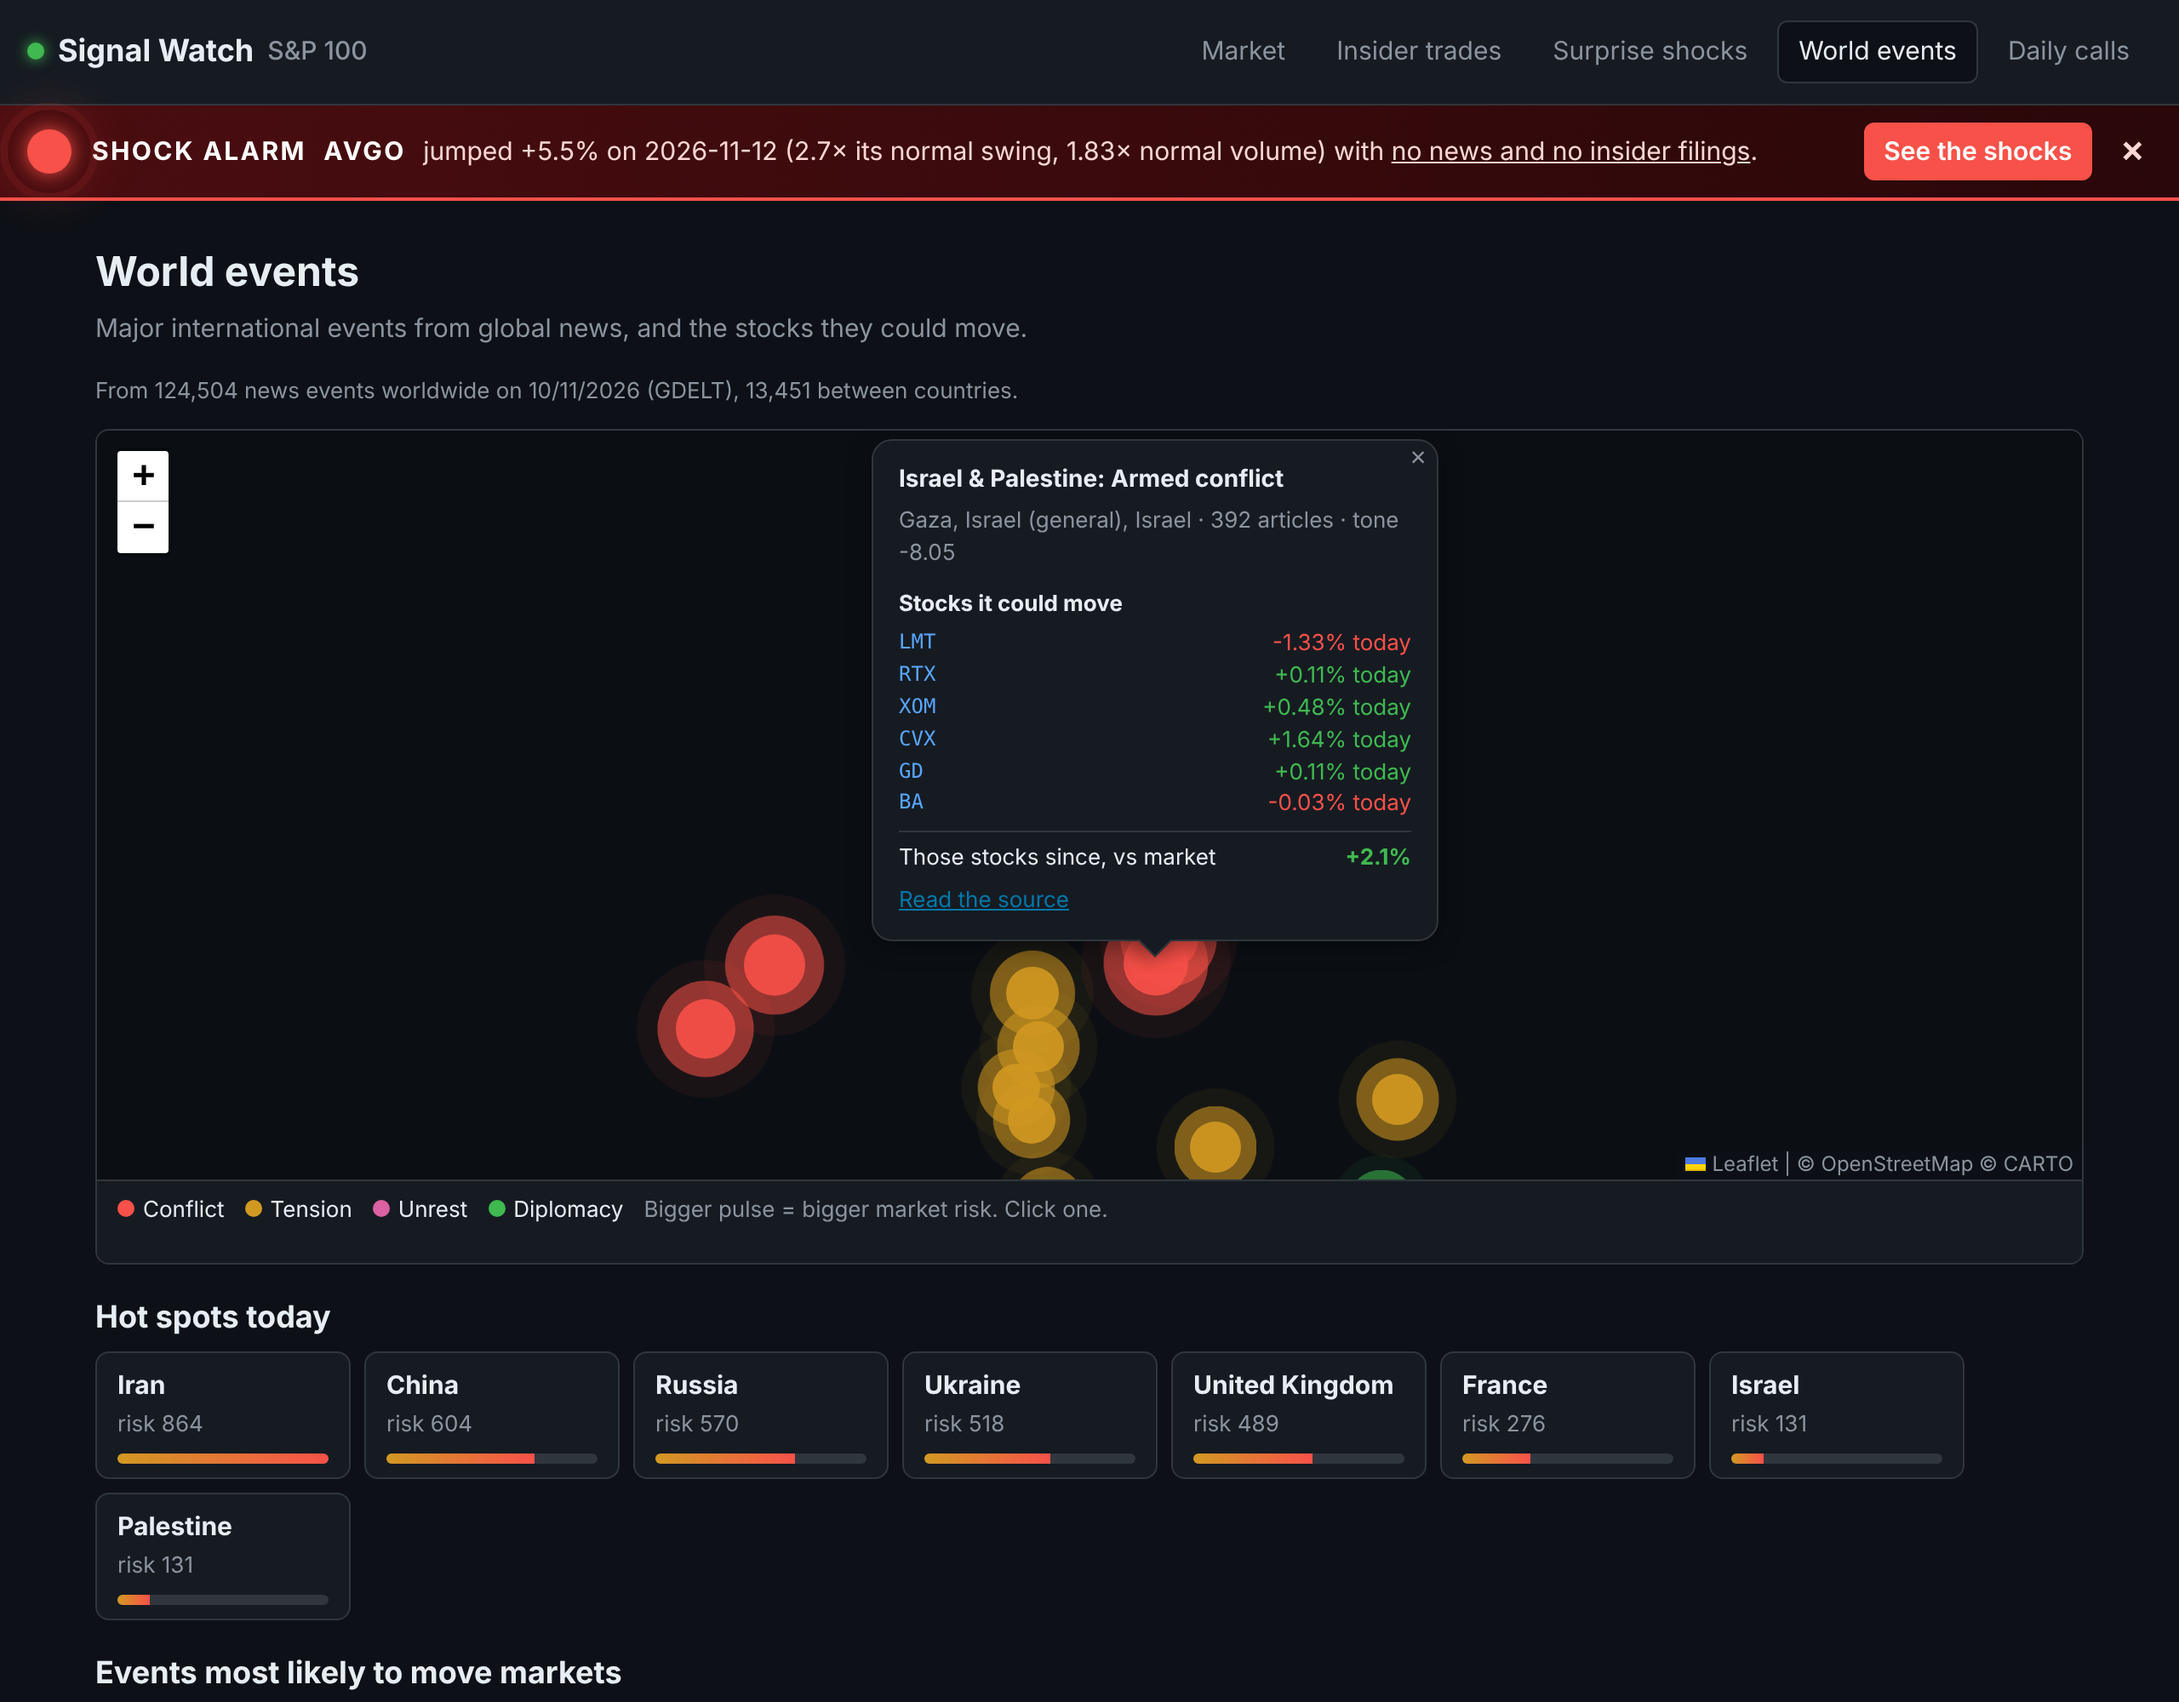
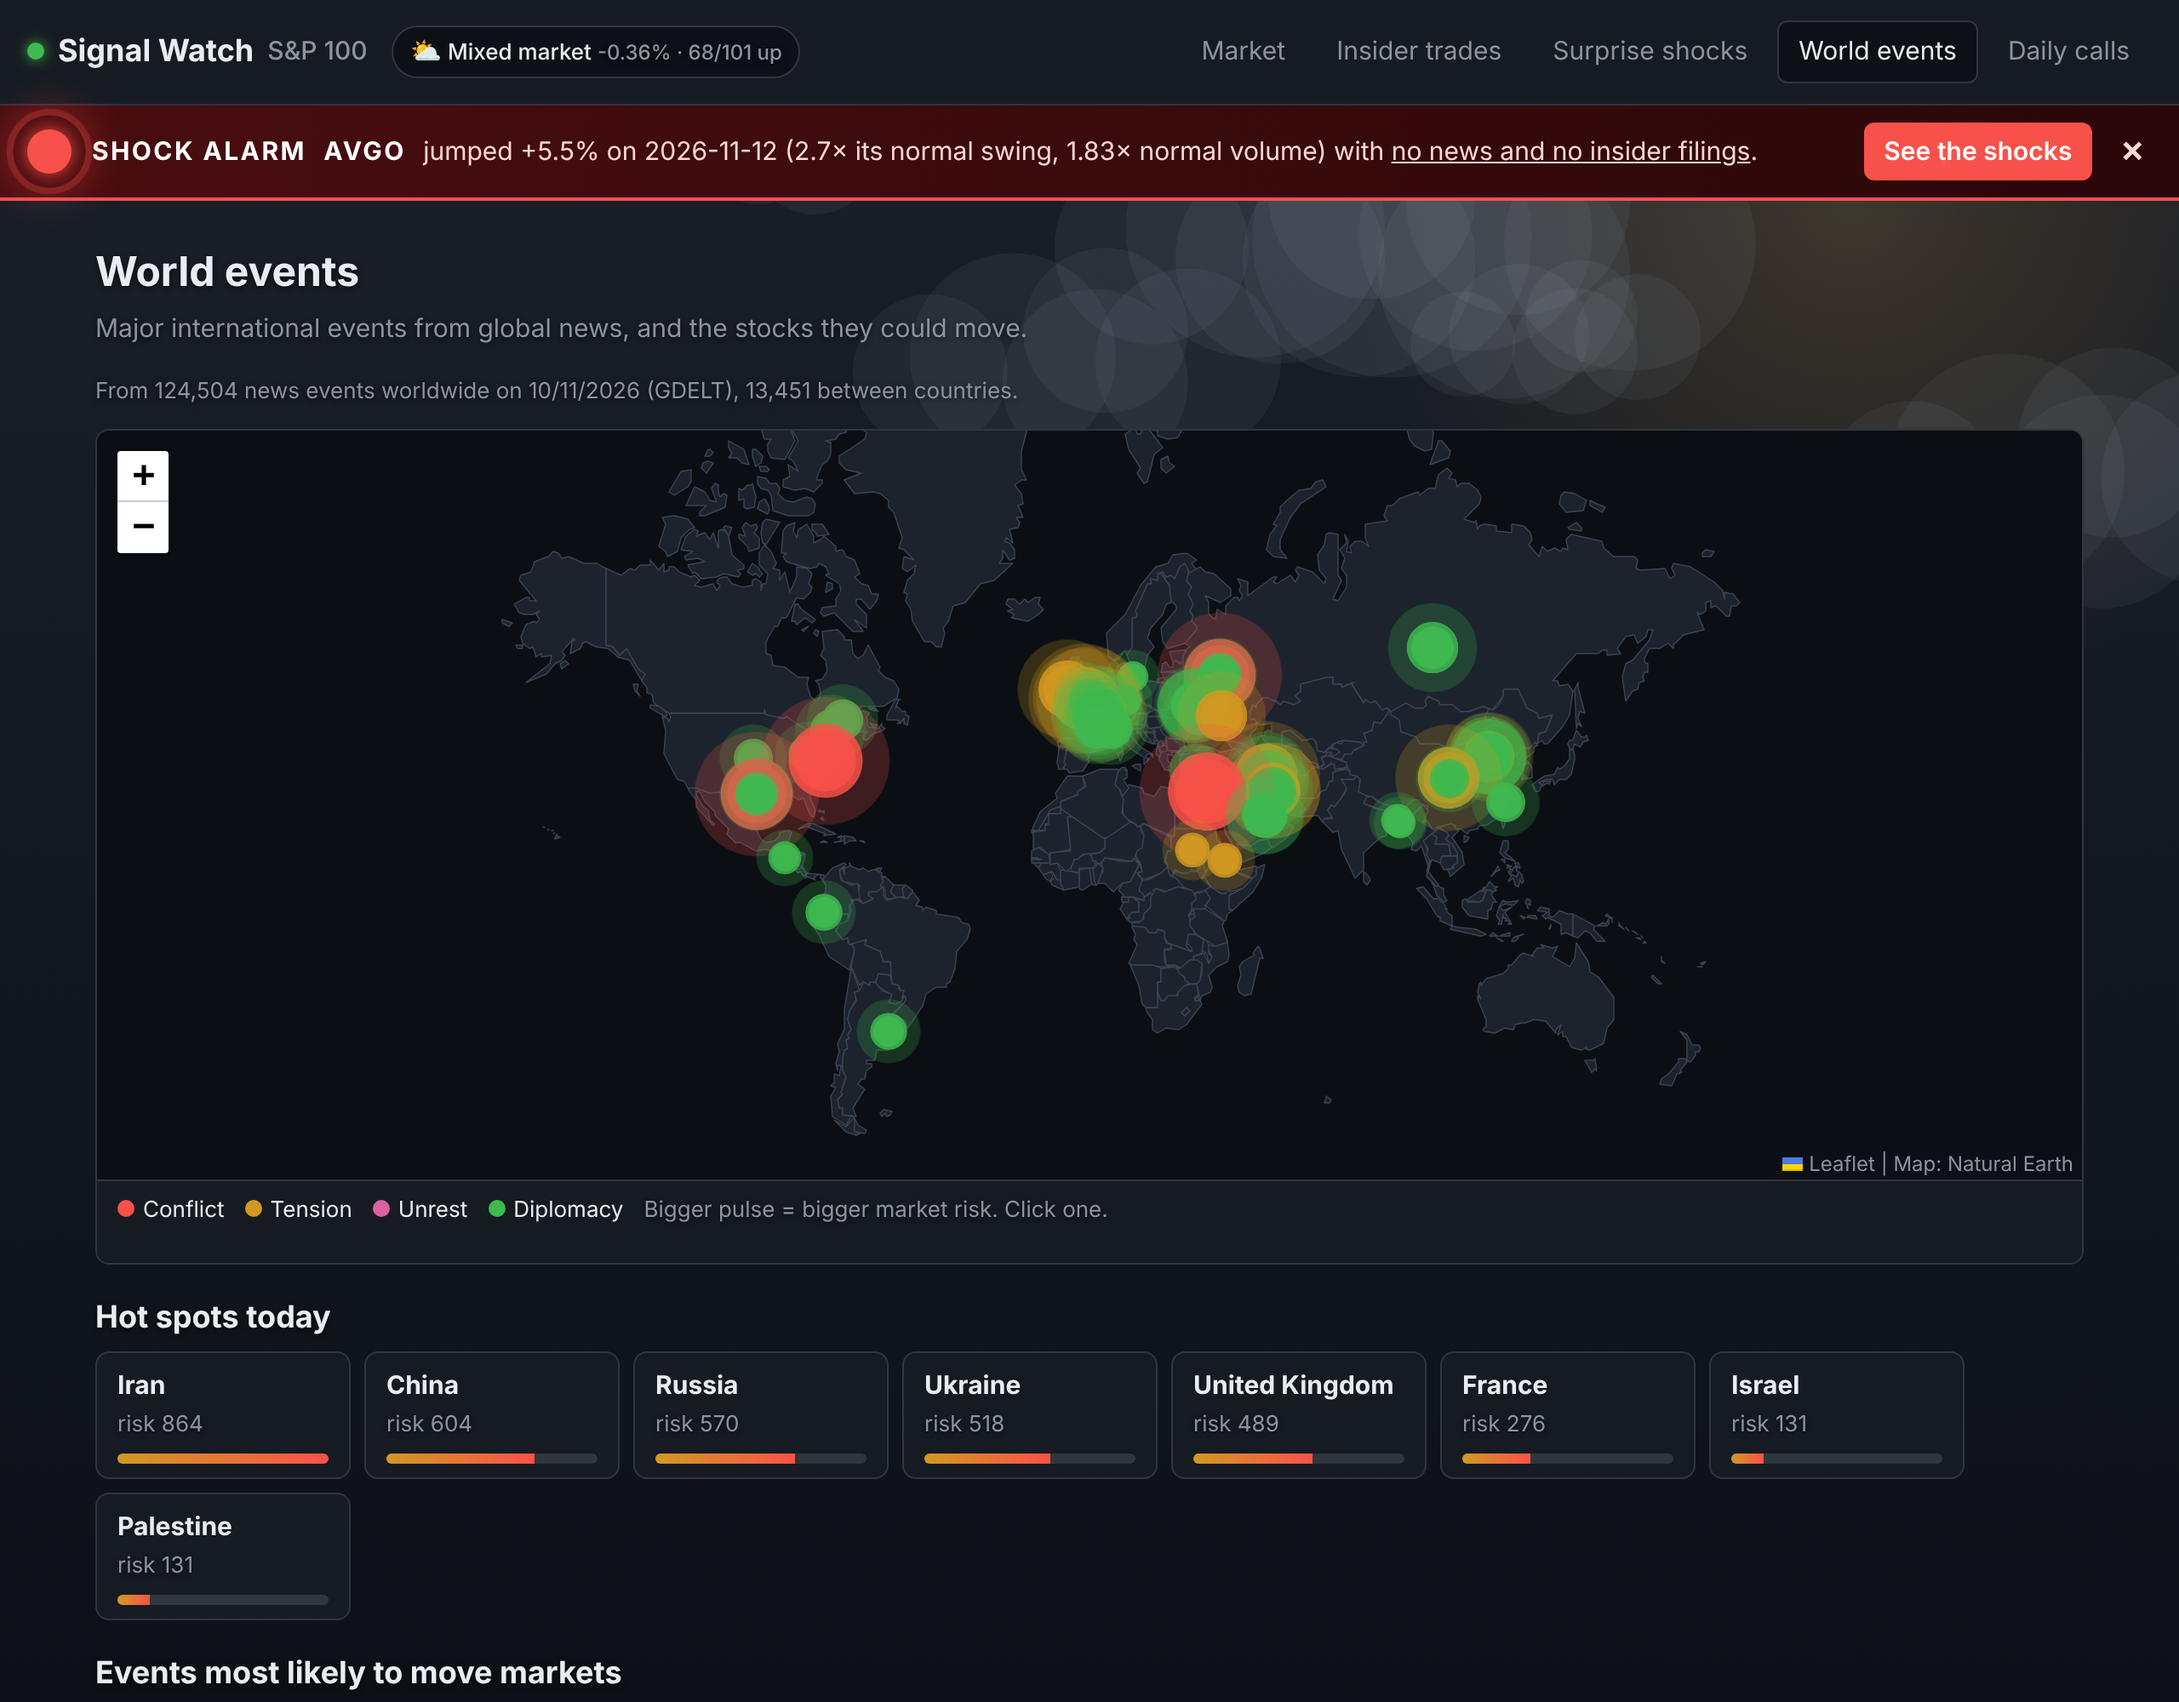
World map: self-hosted country outlines (no tile key needed); fix marker positions
Claude-Session: https://claude.ai/code/session_01WANxVKGFRzUGga4fXLtzbj

diff --git a/site/app.js b/site/app.js
@@ -120,10 +120,12 @@ let MAP;
 function drawMap() {
   if (!window.L || MAP) return;
   const { ev, w } = WORLD;
-  MAP = L.map("map", { worldCopyJump: true, minZoom: 1, zoomSnap: 0.5 }).setView([28, 15], 1.5);
-  L.tileLayer("https://{s}.basemaps.cartocdn.com/dark_all/{z}/{x}/{y}{r}.png", {
-    subdomains: "abcd", maxZoom: 8, attribution: '&copy; <a href="https://www.openstreetmap.org/copyright">OpenStreetMap</a> &copy; <a href="https://carto.com/attributions">CARTO</a>',
-  }).addTo(MAP);
+  MAP = L.map("map", { minZoom: 1, maxZoom: 6, zoomSnap: 0.5, maxBounds: [[-75, -200], [85, 200]] }).setView([28, 15], 1.5);
+  // Self-hosted country outlines (Natural Earth, public domain, via world-atlas): no map key or tile server needed
+  load("countries.geo.json").then((geo) => {
+    L.geoJSON(geo, { interactive: false, style: { color: "#3b4452", weight: 0.7, fillColor: "#1c232d", fillOpacity: 1 } }).addTo(MAP).bringToBack();
+  });
+  MAP.attributionControl.addAttribution("Map: Natural Earth");
   const max = Math.max(...ev.events.map((e) => e.risk));
   ev.events.forEach((e, i) => {
     if (e.lat == null) return;

diff --git a/site/styles.css b/site/styles.css
@@ -99,7 +99,7 @@ label{color:var(--muted);display:flex;gap:6px;align-items:center;cursor:pointer}
 .lg{display:inline-block;width:10px;height:10px;border-radius:50%;margin-right:5px}
 .lg.conflict,.pulse.conflict i{background:var(--down)}.lg.sanctions,.pulse.sanctions i{background:var(--warn)}
 .lg.unrest,.pulse.unrest i{background:#db61a2}.lg.cooperation,.pulse.cooperation i{background:var(--up)}
-.pulse{position:relative}.pulse i{position:absolute;inset:0;border-radius:50%;opacity:.9}
+.pulse i{position:absolute;inset:0;border-radius:50%;opacity:.9}
 .pulse i:nth-child(2){animation:ring 1.8s ease-out infinite;opacity:.6}
 .pulse i:nth-child(3){animation:ring 1.8s ease-out .9s infinite;opacity:.6}
 .leaflet-popup-content-wrapper,.leaflet-popup-tip{background:var(--panel);color:var(--text);border:1px solid var(--line)}
